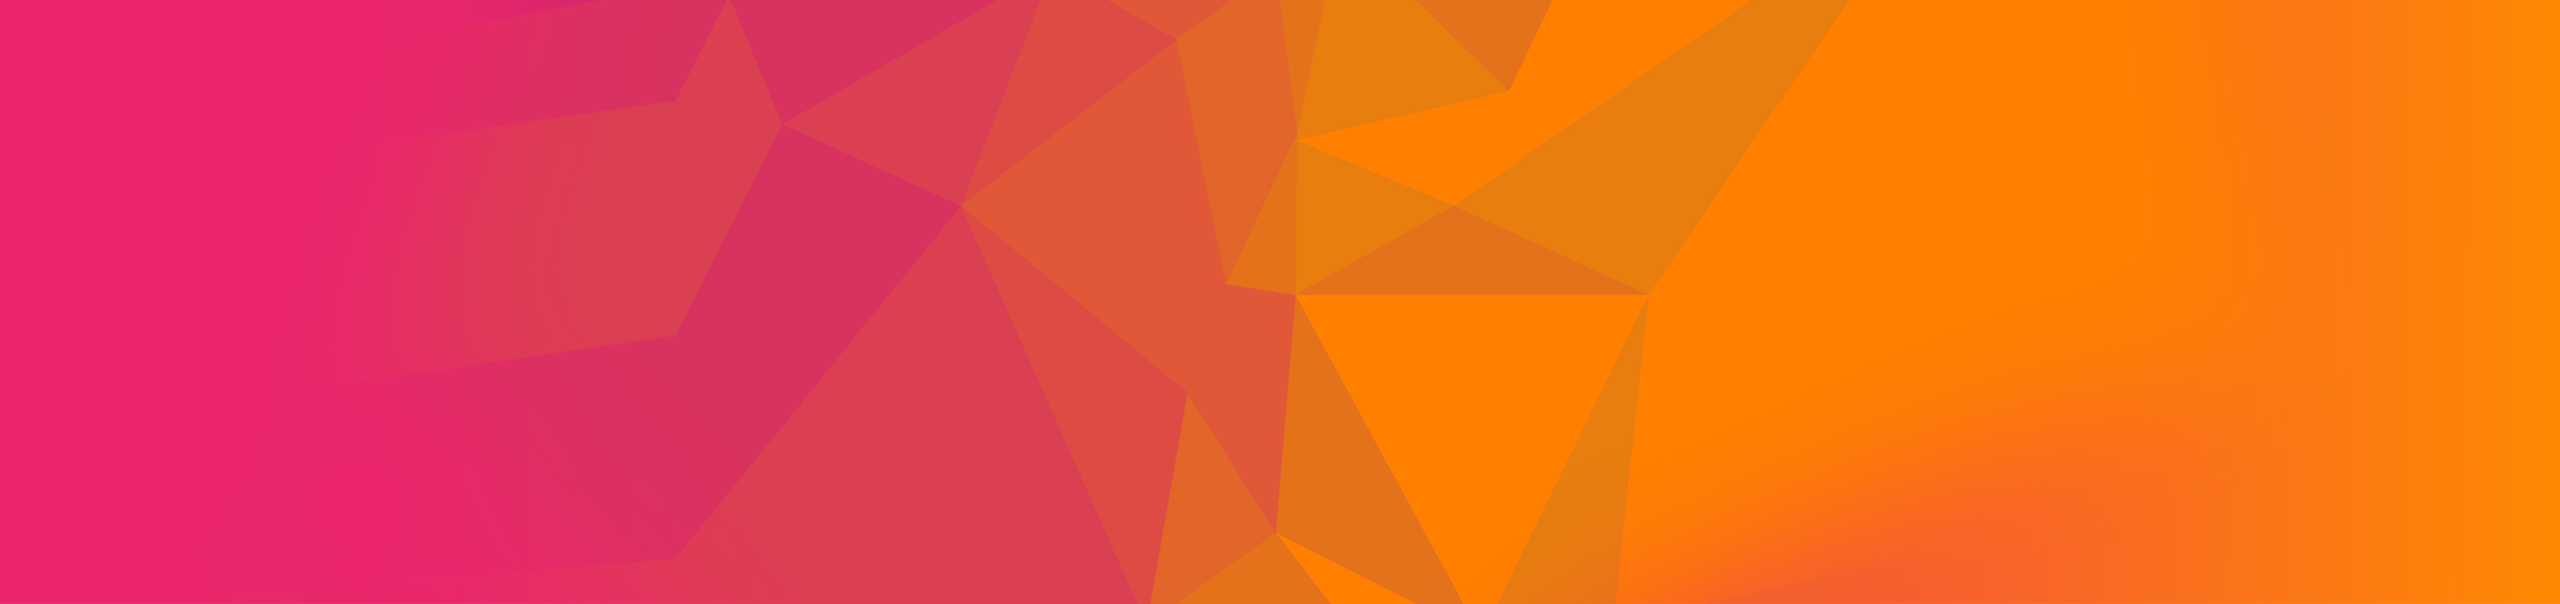
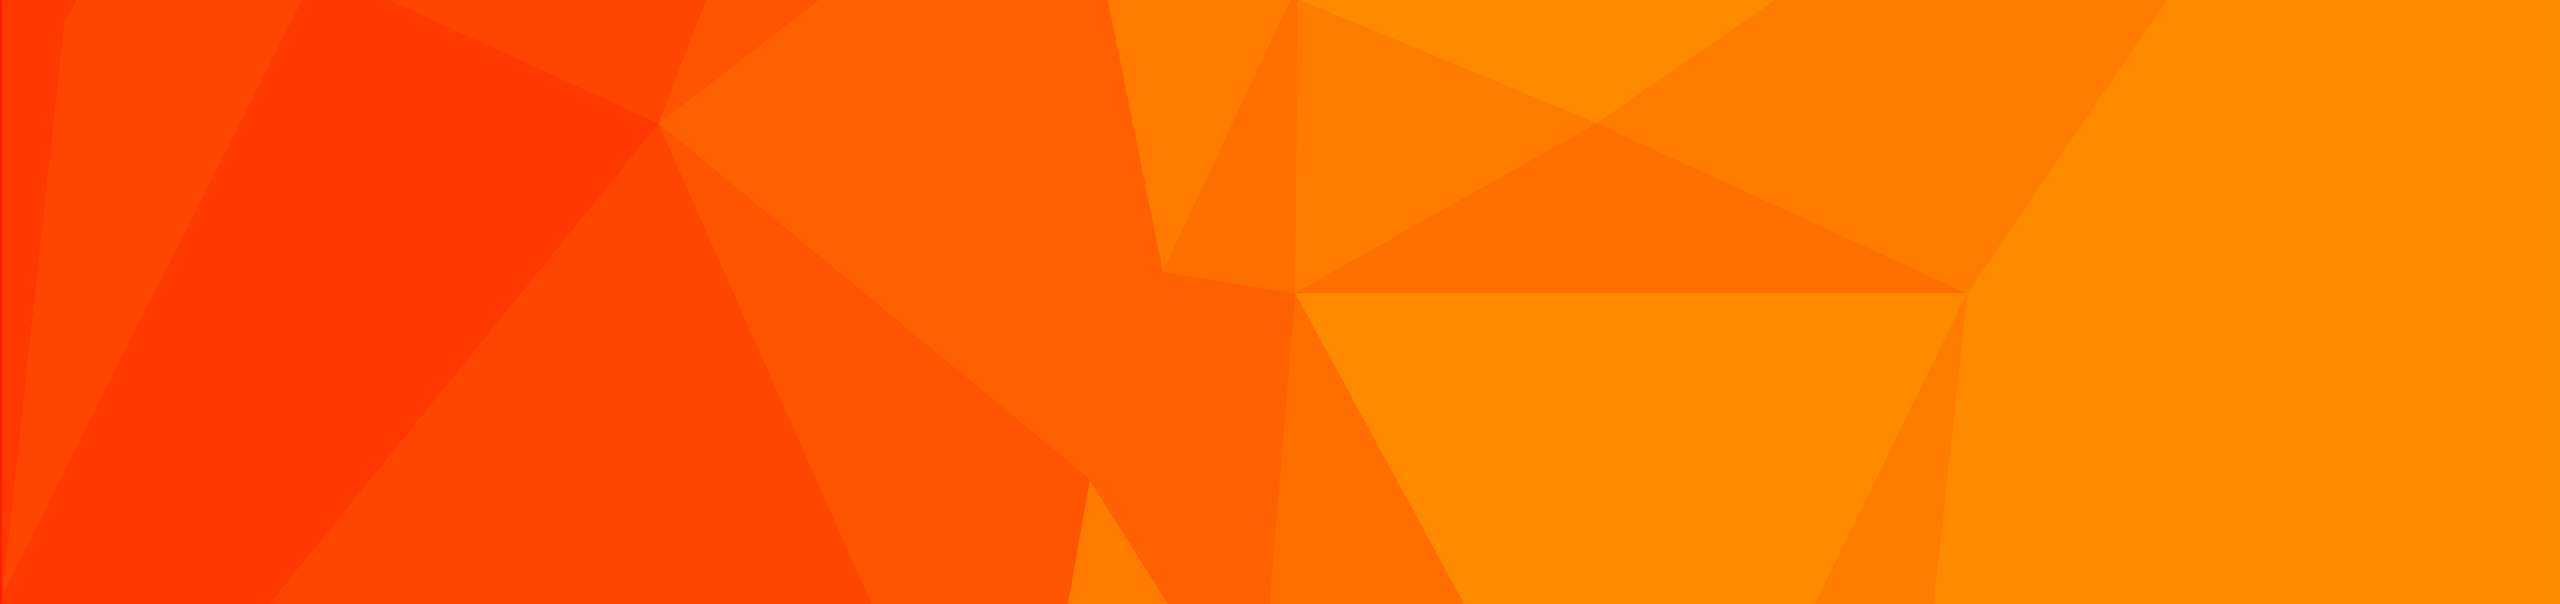
chore(frontend): change colors to orangemunda :orange:

diff --git a/frontend/src/index.js b/frontend/src/index.js
@@ -12,10 +12,10 @@ import { createMuiTheme } from '@material-ui/core/styles';
 const theme = createMuiTheme({
   palette: {
     primary: {
-      main: '#eb256d',
+      main: '#ff1e00',
     },
     secondary: {
-      main: 'rgb(252,126,36)',
+      main: 'rgb(255,138,1)',
     },
     error: {
       main: red.A400,
